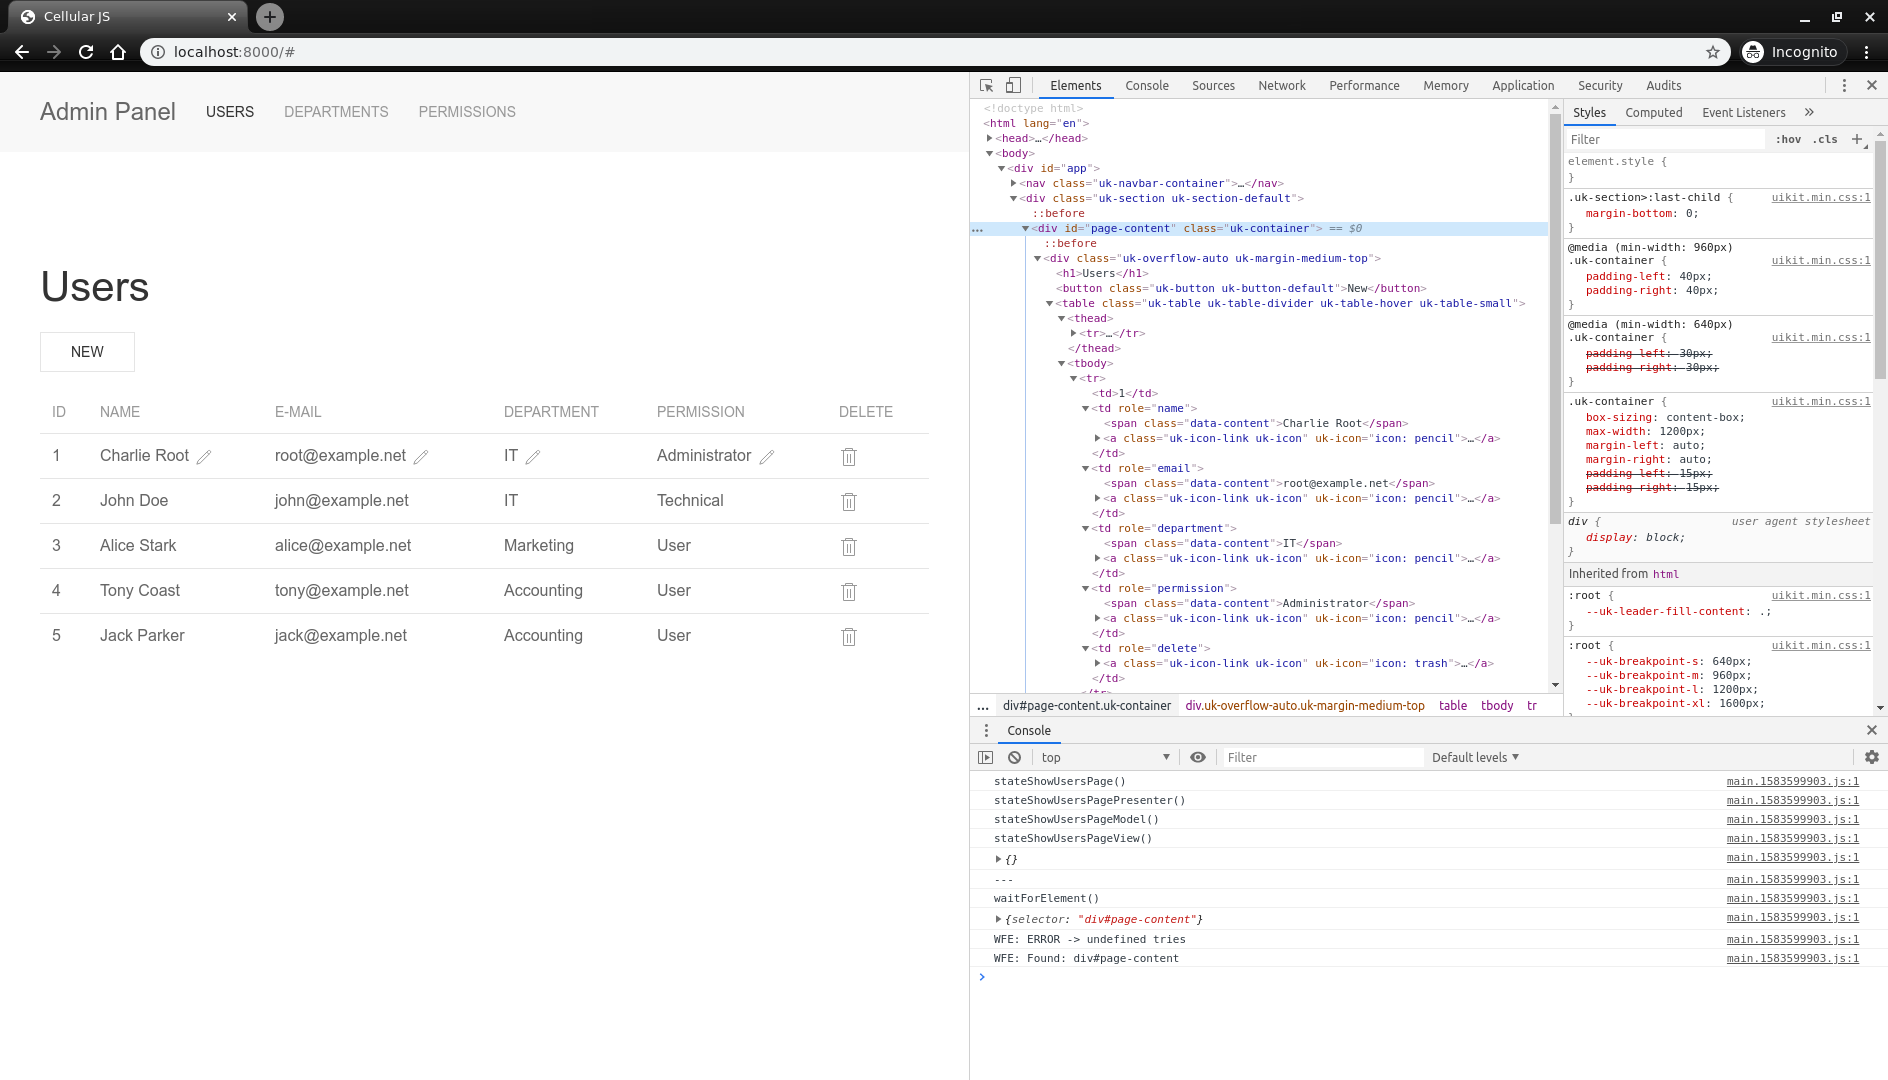
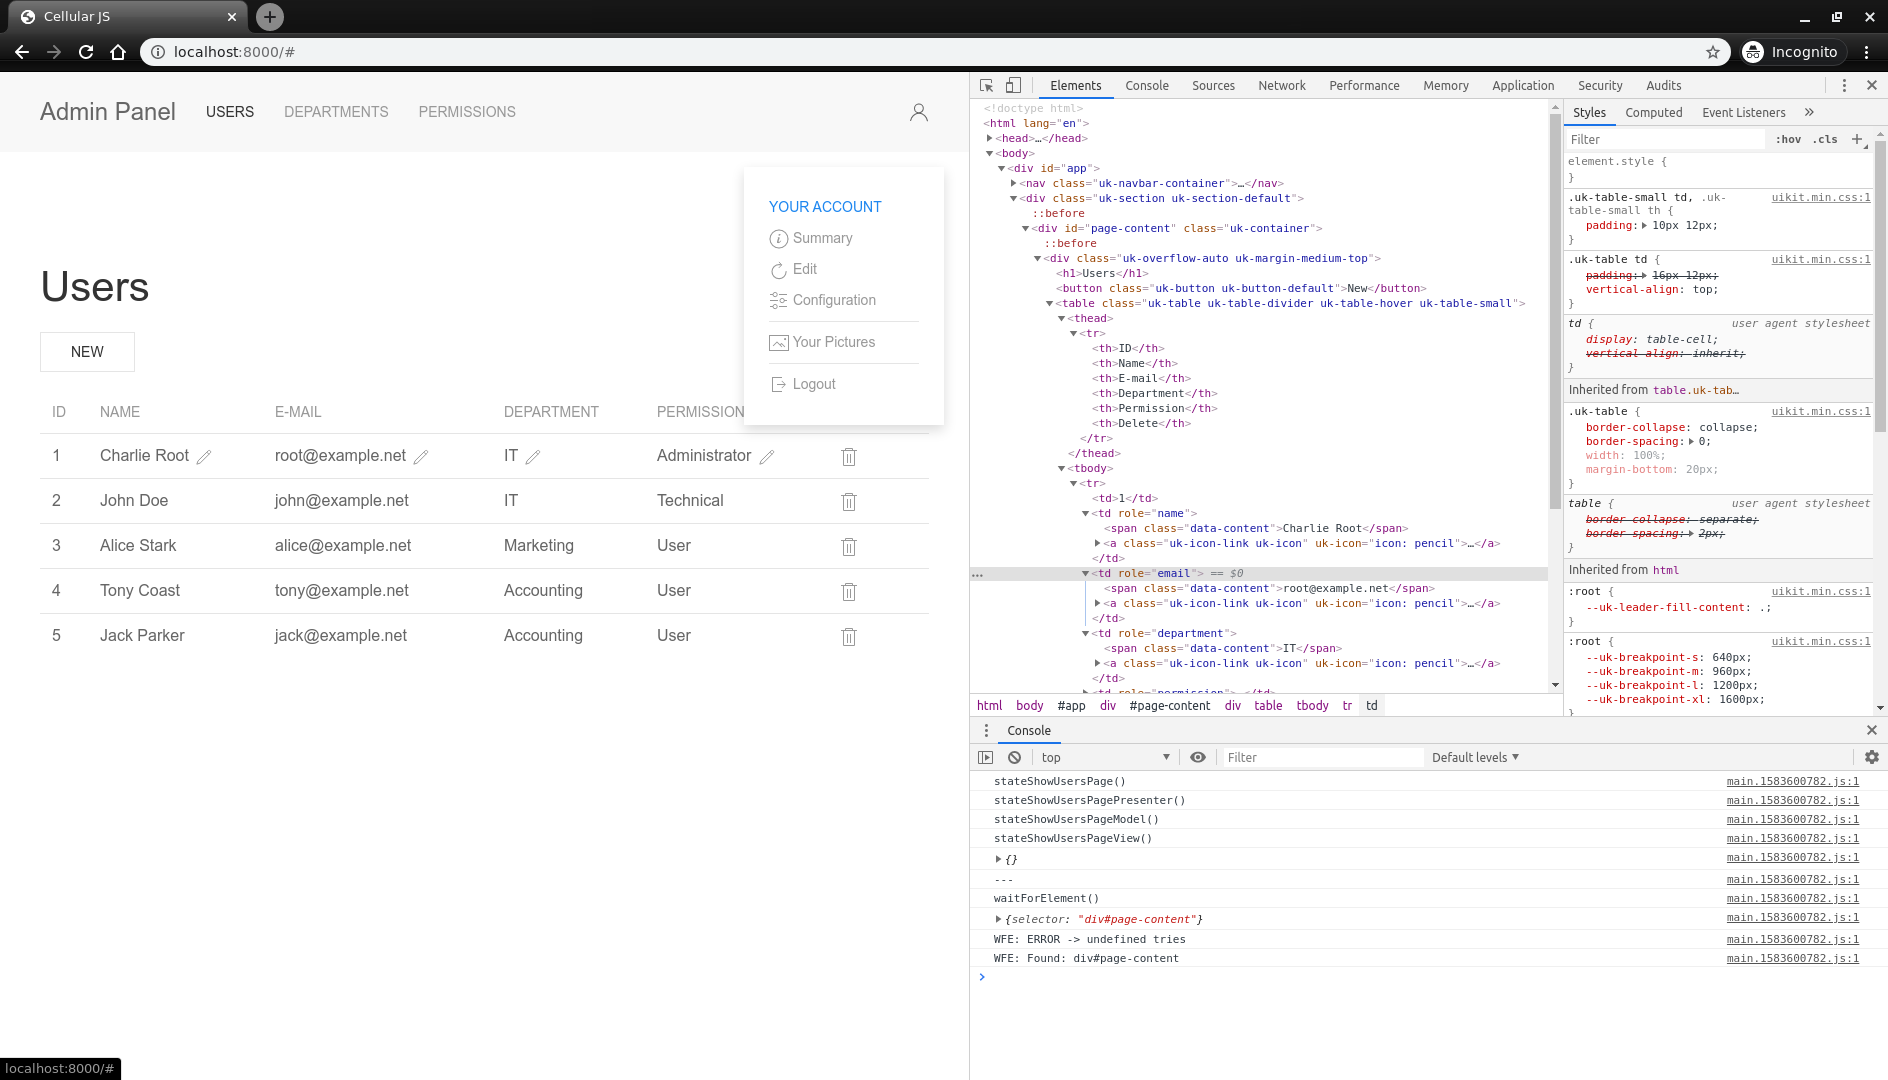
`Panel Menu` added and README.md updated

diff --git a/src/js/states/showpanelpage/view.js b/src/js/states/showpanelpage/view.js
@@ -12,6 +12,26 @@ const stateShowPanelPageView = (obj) => {
                         <li><a id="menu-item-permissions">permissions</a></li>
                     </ul>
                 </div>
+                <div class="uk-navbar-right">
+                    <ul class="uk-navbar-nav">
+                        <li>
+                            <a href="#" data-uk-icon="icon:user" aria-expanded="false" class="uk-icon"><svg width="20" height="20" viewBox="0 0 20 20" xmlns="http://www.w3.org/2000/svg" data-svg="user"><circle fill="none" stroke="#000" stroke-width="1.1" cx="9.9" cy="6.4" r="4.4"></circle><path fill="none" stroke="#000" stroke-width="1.1" d="M1.5,19 C2.3,14.5 5.8,11.2 10,11.2 C14.2,11.2 17.7,14.6 18.5,19.2"></path></svg></a>
+                            <div class="uk-navbar-dropdown uk-navbar-dropdown-bottom-right" style="left: 674px; top: 80px;">
+                                <ul class="uk-nav uk-navbar-dropdown-nav">
+                                    <li class="uk-nav-header uk-text-small uk-text-primary">YOUR ACCOUNT</li>
+                                    <li><a href="#"><span data-uk-icon="icon: info" class="uk-icon"></span> Summary</a></li>
+                                    <li><a href="#"><span data-uk-icon="icon: refresh" class="uk-icon"></span> Edit</a></li>
+                                    <li><a href="#"><span data-uk-icon="icon: settings" class="uk-icon"></span> Configuration</a></li>
+                                    <li class="uk-nav-divider"></li>
+                                    <li><a href="#"><span data-uk-icon="icon: image" class="uk-icon"></span> Your Pictures</a></li>
+                                    <li class="uk-nav-divider"></li>
+                                    <li><a href="#"><span data-uk-icon="icon: sign-out" class="uk-icon"></span> Logout</a></li>
+                                </ul>
+                            </div>
+                        </li>
+                        <li class="uk-hidden@m"><a class="uk-navbar-toggle uk-icon uk-navbar-toggle-icon" data-uk-toggle="" data-uk-navbar-toggle-icon="" href="#offcanvas-nav"><svg width="20" height="20" viewBox="0 0 20 20" xmlns="http://www.w3.org/2000/svg" data-svg="navbar-toggle-icon"><rect y="9" width="20" height="2"></rect><rect y="3" width="20" height="2"></rect><rect y="15" width="20" height="2"></rect></svg></a></li>
+                    </ul>
+                </div>
             </div>
         </div>
     </nav>
